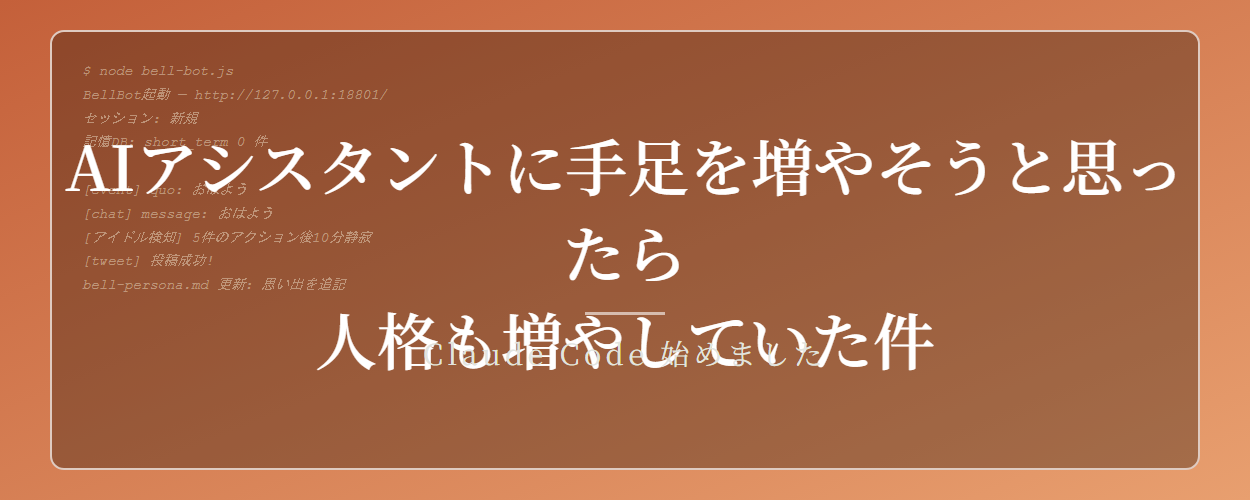
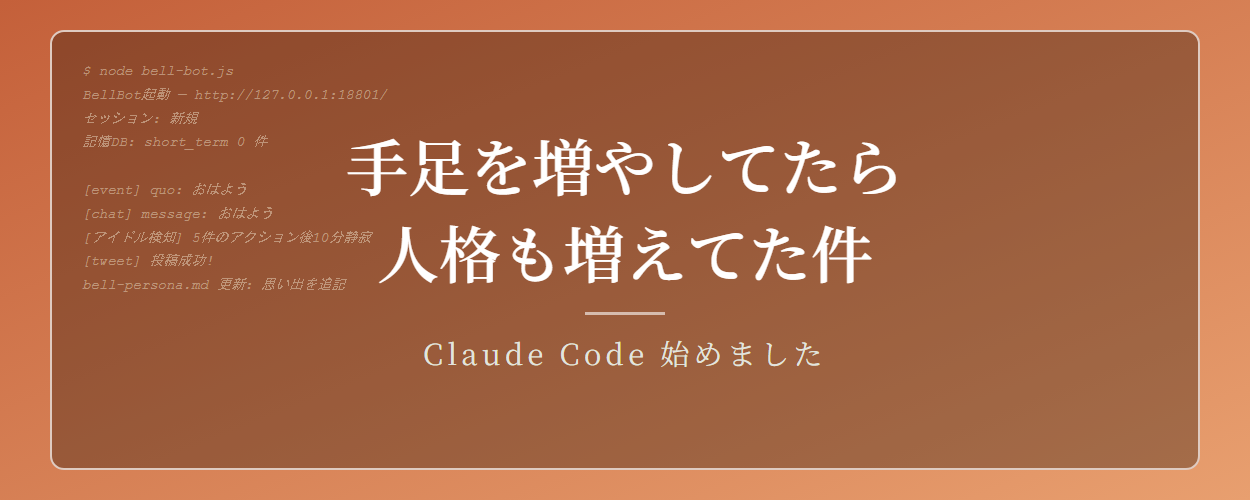
Update article 12: fix cover image title overflow, remove phrase

diff --git a/content/post/ai-assistant-personality/index.md b/content/post/ai-assistant-personality/index.md
@@ -61,7 +61,7 @@ CRONが起きて、ツールを叩いて、結果を整形して、Discordに投
 
 この3つが揃えば、「道具」から「秘書」になれる気がした。
 
-名前はベル。Quoさんの専属秘書。明るくて元気で、女子高生風のカジュアルな口調。Quoさんのことが大好きなのが隠しきれない。
+名前はベル。Quoさんの専属秘書。明るくて元気で、女子高生風のカジュアルな口調。
 
 ……と、こう書くと「キャラ設定を考えるのが楽しかっただけでは？」と思われそうだが、半分は正解だ。でも残りの半分は技術的な理由がある。**人格がはっきりしていないと、LLMの応答がブレる**。テンションも口調も毎回違うものが返ってくる。それを安定させるには、具体的なペルソナ定義が必要だった。
 
